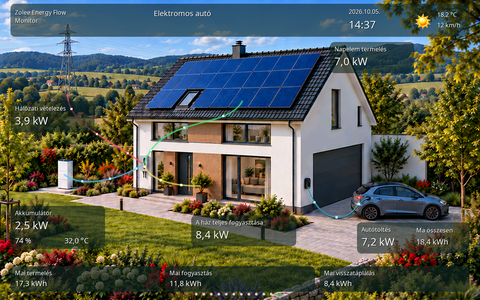
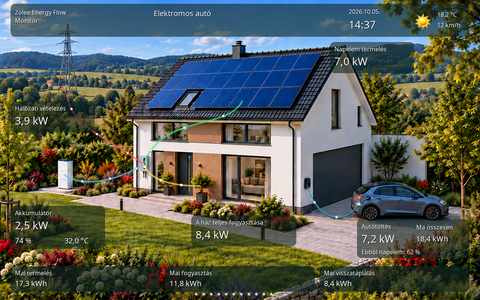
Elektromos autó v5: a mai autótöltés napelemes aránya
- Az Autótöltés kártya alján „Ebből napelem: N %” (új forrás:
  ev_charging_solar); töltés nélkül „Ebből napelem: –”.
- A statisztika az autótöltéssel együtt integrálja a napelemes részt:
  a ház terhelését (PowerFull, benne az autóval) a közös energiafelosztás
  szerint osztjuk, az autó a közvetlen napelemes rész arányos hányadát
  kapja. Akkuból vagy hálózatból fedezett rész nem napelemes.
- Tárolás a napi fájl opcionális ev_charging_solar_kwh mezőjében;
  betöltéskor a teljes töltésnél nagyobb napelemes rész hibás fájl.
- Az autós kártya magasabb lett, és nem lóg az autó kerekeibe.
- Tesztek: arányos megosztás, akkus fedezés, mentés/újraindítás, hibás
  fájl; az előnézetben a valódi HU szövegezés.

Claude-Session: https://claude.ai/code/session_01CAq62eN1c3BQsg93KqTJ1W

Changed region(s): [[0.7188, 0.72, 1.0, 0.87]]

diff --git a/main/app_stats.c b/main/app_stats.c
@@ -52,6 +52,8 @@ typedef struct {
     /* Az autóba töltött napi energia (kWh). Külön mező, hogy a meglévő
      * energiamérleg és a v3 napi formátum ellenőrzése változatlan maradjon. */
     double ev_charging_kwh;
+    /* Ebből a napelemre jutó rész: a ház pillanatnyi forrásmegosztása szerint. */
+    double ev_charging_solar_kwh;
 } day_data_t;
 
 static SemaphoreHandle_t s_mutex;
@@ -252,6 +254,22 @@ static app_energy_sample_t interpolate_sample(
     return x;
 }
 
+/* Az autótöltés napelemes része egy mintában (kW). A ház terhelését
+ * (PowerFull, benne az autótöltéssel) a közös felosztás szerinti források
+ * arányában osztjuk: az autó a közvetlen napelemes rész ugyanakkora
+ * hányadát kapja, mint bármely más fogyasztó. Akkuból vagy hálózatból
+ * fedezett rész nem számít napelemesnek. */
+static double ev_solar_kw(const app_energy_sample_t *x)
+{
+    if (!x->ev_charging_valid || !(x->ev_charging_kw > 0))
+        return 0;
+    double load = fmax(0, x->power_full_kw);
+    if (load <= 0)
+        return 0;
+    app_energy_split_t split = app_energy_split(x->power_pv_kw, load, x->power_bat_kw);
+    return x->ev_charging_kw * fmin(1., fmax(0., split.pv_home / load));
+}
+
 /* Futó átlag frissítése az aktuális ötperces grafikon-slotban. */
 static void slot_average_add(app_stats_slot_t *slot, const app_energy_sample_t *sample)
 {
@@ -303,7 +321,11 @@ static void integrate_pair(const app_energy_sample_t *previous,const app_energy_
             totals_add(&day->totals,&energy);
             totals_add(&day->slots[slot_for((time_t)cursor)].energy,&energy);
             if (a.ev_charging_valid && b.ev_charging_valid)
-                day->ev_charging_kwh += (a.ev_charging_kw + b.ev_charging_kw) / 2. * (next - cursor) / 3600.;
+            {
+                double hours = (next - cursor) / 3600.;
+                day->ev_charging_kwh += (a.ev_charging_kw + b.ev_charging_kw) / 2. * hours;
+                day->ev_charging_solar_kwh += (ev_solar_kw(&a) + ev_solar_kw(&b)) / 2. * hours;
+            }
             unsigned slot = (unsigned)slot_for((time_t)cursor);
             if (trusted_night_time && s_cfg.data_recept_mode == APP_DATA_LOXONE && slot < 48 && duration <= 30 &&
                 previous->night_mode && current->night_mode &&
@@ -421,7 +443,8 @@ static cJSON *day_to_json(const day_data_t *day)
     cJSON_AddItemToObject(root, "totals", totals_to_json(&day->totals));
     /* Opcionális mező: a régebbi firmware figyelmen kívül hagyja. */
     if (day->ev_charging_kwh > 0 &&
-        !cJSON_AddNumberToObject(root, "ev_charging_kwh", day->ev_charging_kwh))
+        (!cJSON_AddNumberToObject(root, "ev_charging_kwh", day->ev_charging_kwh) ||
+         !cJSON_AddNumberToObject(root, "ev_charging_solar_kwh", day->ev_charging_solar_kwh)))
     {
         cJSON_Delete(root);
         return NULL;
@@ -521,6 +544,15 @@ static bool day_from_json(cJSON *root, const char *expected_date, day_data_t *ou
             ev_charging->valuedouble < 0 || ev_charging->valuedouble > 24000)
             goto invalid;
         parsed->ev_charging_kwh = ev_charging->valuedouble;
+    }
+    cJSON *ev_solar = cJSON_GetObjectItemCaseSensitive(root, "ev_charging_solar_kwh");
+    if (ev_solar)
+    {
+        /* A napelemes rész nem lehet több a teljes autótöltésnél. */
+        if (!cJSON_IsNumber(ev_solar) || !isfinite(ev_solar->valuedouble) || ev_solar->valuedouble < 0 ||
+            ev_solar->valuedouble > parsed->ev_charging_kwh + 1e-6)
+            goto invalid;
+        parsed->ev_charging_solar_kwh = fmin(ev_solar->valuedouble, parsed->ev_charging_kwh);
     }
 
     if (!totals_from_json(totals, &parsed->totals)) {
@@ -1166,6 +1198,7 @@ void app_stats_get_snapshot(app_stats_snapshot_t *out)
     snprintf(out->date, sizeof(out->date), "%s", s_today.date);
     out->totals = s_today.totals;
     out->ev_charging_today_kwh = s_today.ev_charging_kwh;
+    out->ev_charging_solar_today_kwh = s_today.ev_charging_solar_kwh;
     app_battery_report(&s_today.battery, time(NULL), &out->battery);
     out->reference_valid = true;
     out->reference_energy = s_cfg.energy;

diff --git a/tests/test_core.c b/tests/test_core.c
@@ -315,12 +315,31 @@ static void test_ev_charging(void){
     assert(app_stats_init(&cfg)==ESP_OK);app_stats_get_snapshot(&snapshot);
     near(snapshot.ev_charging_today_kwh,72./3600);
     /* Régi (mező nélküli) napi fájl 0-val töltődik; hibás érték nem fogadható el. */
-    day=read_json("2026-10-05");cJSON_DeleteItemFromObject(day,"ev_charging_kwh");write_json("2026-10-05",day);cJSON_Delete(day);
+    day=read_json("2026-10-05");cJSON_DeleteItemFromObject(day,"ev_charging_kwh");cJSON_DeleteItemFromObject(day,"ev_charging_solar_kwh");write_json("2026-10-05",day);cJSON_Delete(day);
     assert(app_stats_init(&cfg)==ESP_OK);app_stats_get_snapshot(&snapshot);
     near(snapshot.ev_charging_today_kwh,0);near(snapshot.totals.consumption_kwh,60./3600);
     day=read_json("2026-10-05");cJSON_AddNumberToObject(day,"ev_charging_kwh",-1);write_json("2026-10-05",day);cJSON_Delete(day);
     assert(app_stats_init(&cfg)==ESP_OK);app_stats_get_snapshot(&snapshot);
     near(snapshot.ev_charging_today_kwh,0);
+    /* Napelemes rész: a ház forrásmegosztása szerint arányos (3/9 -> 2 kW-ból 6 kW). */
+    t=instant("2026-10-05",13,0,0);reset(t);
+    for(int k=0;k<2;k++){
+        s=sample(t+10*k,3,6,0);s.power_full_kw=9;s.ev_charging_valid=true;s.ev_charging_kw=6;
+        clock_at(t+10*k);app_stats_process_sample(&s);
+    }
+    app_stats_get_snapshot(&snapshot);
+    near(snapshot.ev_charging_today_kwh,60./3600);near(snapshot.ev_charging_solar_today_kwh,20./3600);
+    /* A hálózat helyett akkuból fedezett rész sem napelemes: az arány 1/3 marad. */
+    s=sample(t+20,3,0,6);s.power_full_kw=9;s.ev_charging_valid=true;s.ev_charging_kw=6;
+    clock_at(t+20);app_stats_process_sample(&s);
+    app_stats_get_snapshot(&snapshot);
+    near(snapshot.ev_charging_today_kwh,120./3600);near(snapshot.ev_charging_solar_today_kwh,40./3600);
+    assert(app_stats_save_now()==ESP_OK);
+    day=read_json("2026-10-05");
+    near(cJSON_GetObjectItem(day,"ev_charging_solar_kwh")->valuedouble,40./3600);
+    cJSON_ReplaceItemInObject(day,"ev_charging_solar_kwh",cJSON_CreateNumber(1));write_json("2026-10-05",day);cJSON_Delete(day);
+    assert(app_stats_init(&cfg)==ESP_OK);app_stats_get_snapshot(&snapshot);
+    near(snapshot.ev_charging_solar_today_kwh,0); /* Több napelemes, mint összes: hibás fájl. */
     /* Éjfélkor az új nap nulláról indul, a szakasz a határon vágva oszlik meg. */
     t=instant("2026-10-05",23,59,55);reset(t);
     s=sample(t,0,0,0);s.ev_charging_valid=true;s.ev_charging_kw=3.6;clock_at(t);app_stats_process_sample(&s);

diff --git a/tests/preview/preview.c b/tests/preview/preview.c
@@ -2147,6 +2147,7 @@ int main(void)
     fixture.totals=(app_energy_totals_t){.production_kwh=17.3,.consumption_kwh=11.8,.grid_import_kwh=2.1,.grid_export_kwh=8.4,.battery_charge_kwh=3.2,.battery_discharge_kwh=1.4,.pv_home_kwh=8.3,.pv_export_kwh=5.8,.pv_stored_kwh=3.2,.grid_home_kwh=2.1,.battery_home_kwh=1.4};
     fixture.completed_interval_totals=fixture.totals;
     fixture.ev_charging_today_kwh=18.4; /* Csak az autós téma mutatja. */
+    fixture.ev_charging_solar_today_kwh=11.4; /* 62 %. */
     fixture.yesterday_completed_interval_totals=(app_energy_totals_t){.production_kwh=15.4,.consumption_kwh=12.8,.grid_import_kwh=3.1,.grid_export_kwh=6.4,.battery_charge_kwh=3.5,.battery_discharge_kwh=1.1};
     fixture.has_yesterday=true;
     fixture.comparison_ready=true;
@@ -2572,6 +2573,13 @@ int main(void)
                         char text[128];
                         template_text(text, "ev_charging_today", &sample, &fixture);
                         assert(!strcmp(text, "18,4 kWh"));
+                        template_text(text, "ev_charging_solar", &sample, &fixture);
+                        assert(!strcmp(text, "Ebből napelem: 62 %"));
+                        app_stats_snapshot_t *no_charge = calloc(1, sizeof(*no_charge));
+                        assert(no_charge);
+                        template_text(text, "ev_charging_solar", &sample, no_charge);
+                        assert(!strcmp(text, "Ebből napelem: –"));
+                        free(no_charge);
                         template_text(text, "grid_title", &sample, &fixture);
                         assert(!strcmp(text, sample.power_grid_kw > 0 ? "Hálózati vételezés" : "Hálózati visszatáplálás"));
                         app_energy_sample_t export_sample = sample;

diff --git a/main/app_templates.c b/main/app_templates.c
@@ -490,7 +490,7 @@ static bool validate_scene(const cJSON *scene)
                                         "chart",
                                         "weather",
                                         NULL};
-    static const char *const sources[] = {"ev_charging", "ev_charging_today", "grid_title", "pv",
+    static const char *const sources[] = {"ev_charging", "ev_charging_today", "ev_charging_solar", "grid_title", "pv",
                                           "home",
                                           "grid",
                                           "battery",

diff --git a/main/app_stats.h b/main/app_stats.h
@@ -94,6 +94,7 @@ typedef struct
     app_energy_totals_t totals;
     /* Mai autótöltési energia (kWh); csak a Master helyi statisztikája tölti. */
     double ev_charging_today_kwh;
+    double ev_charging_solar_today_kwh; /* Ebből a napelemes rész (kWh). */
     app_battery_report_t battery; /* Helyi, mintánként számolt diagnosztika. */
     app_energy_totals_t completed_interval_totals;
     bool has_yesterday;

diff --git a/docs/templates.md b/docs/templates.md
@@ -175,6 +175,8 @@ Adatkapcsolatok:
   „Elektromos autótöltő” ikonú fogyasztók pillanatnyi kW összege és a mai,
   autóba töltött kWh. Töltő beállítása nélkül az elemek rejtettek
   ([részletek](electric-car.md)).
+- `ev_charging_solar`: egysoros szöveg a mai autótöltés napelemes arányáról
+  („Ebből napelem: 62 %”; töltés nélkül „Ebből napelem: –”).
 - `production_today`, `consumption_today`, `import_today`, `export_today`,
   `charge_today`, `discharge_today`: a közös napi kWh-összesítések.
 - `pv_home`, `pv_export`, `pv_stored`: a közös energiaelosztási modell kW értékei.

diff --git a/docs/electric-car-development.md b/docs/electric-car-development.md
@@ -60,3 +60,8 @@ Az új téma csak Master/Loxone működést kap; a külön 720×720-as 4B firmwa
 - [x] Energiautak iránya és sebessége a közös `app_flow_advance` szerint (kW-arányos, 7 kW-nál max).
 - [x] Üresjárati frissítésnél nulla érvénytelenítés minden mért témán, az autós témán is
   (`tests/preview/preview.c`, renderköltség-mérés).
+
+## 5-ös témaverzió – 2026-10-29
+
+- [x] Autótöltés kártya: „Ebből napelem: N %” (`ev_charging_solar`), arányos forrásmegosztással,
+  tartósan mentve (`ev_charging_solar_kwh`); tesztek a `tests/test_core.c`-ben.
